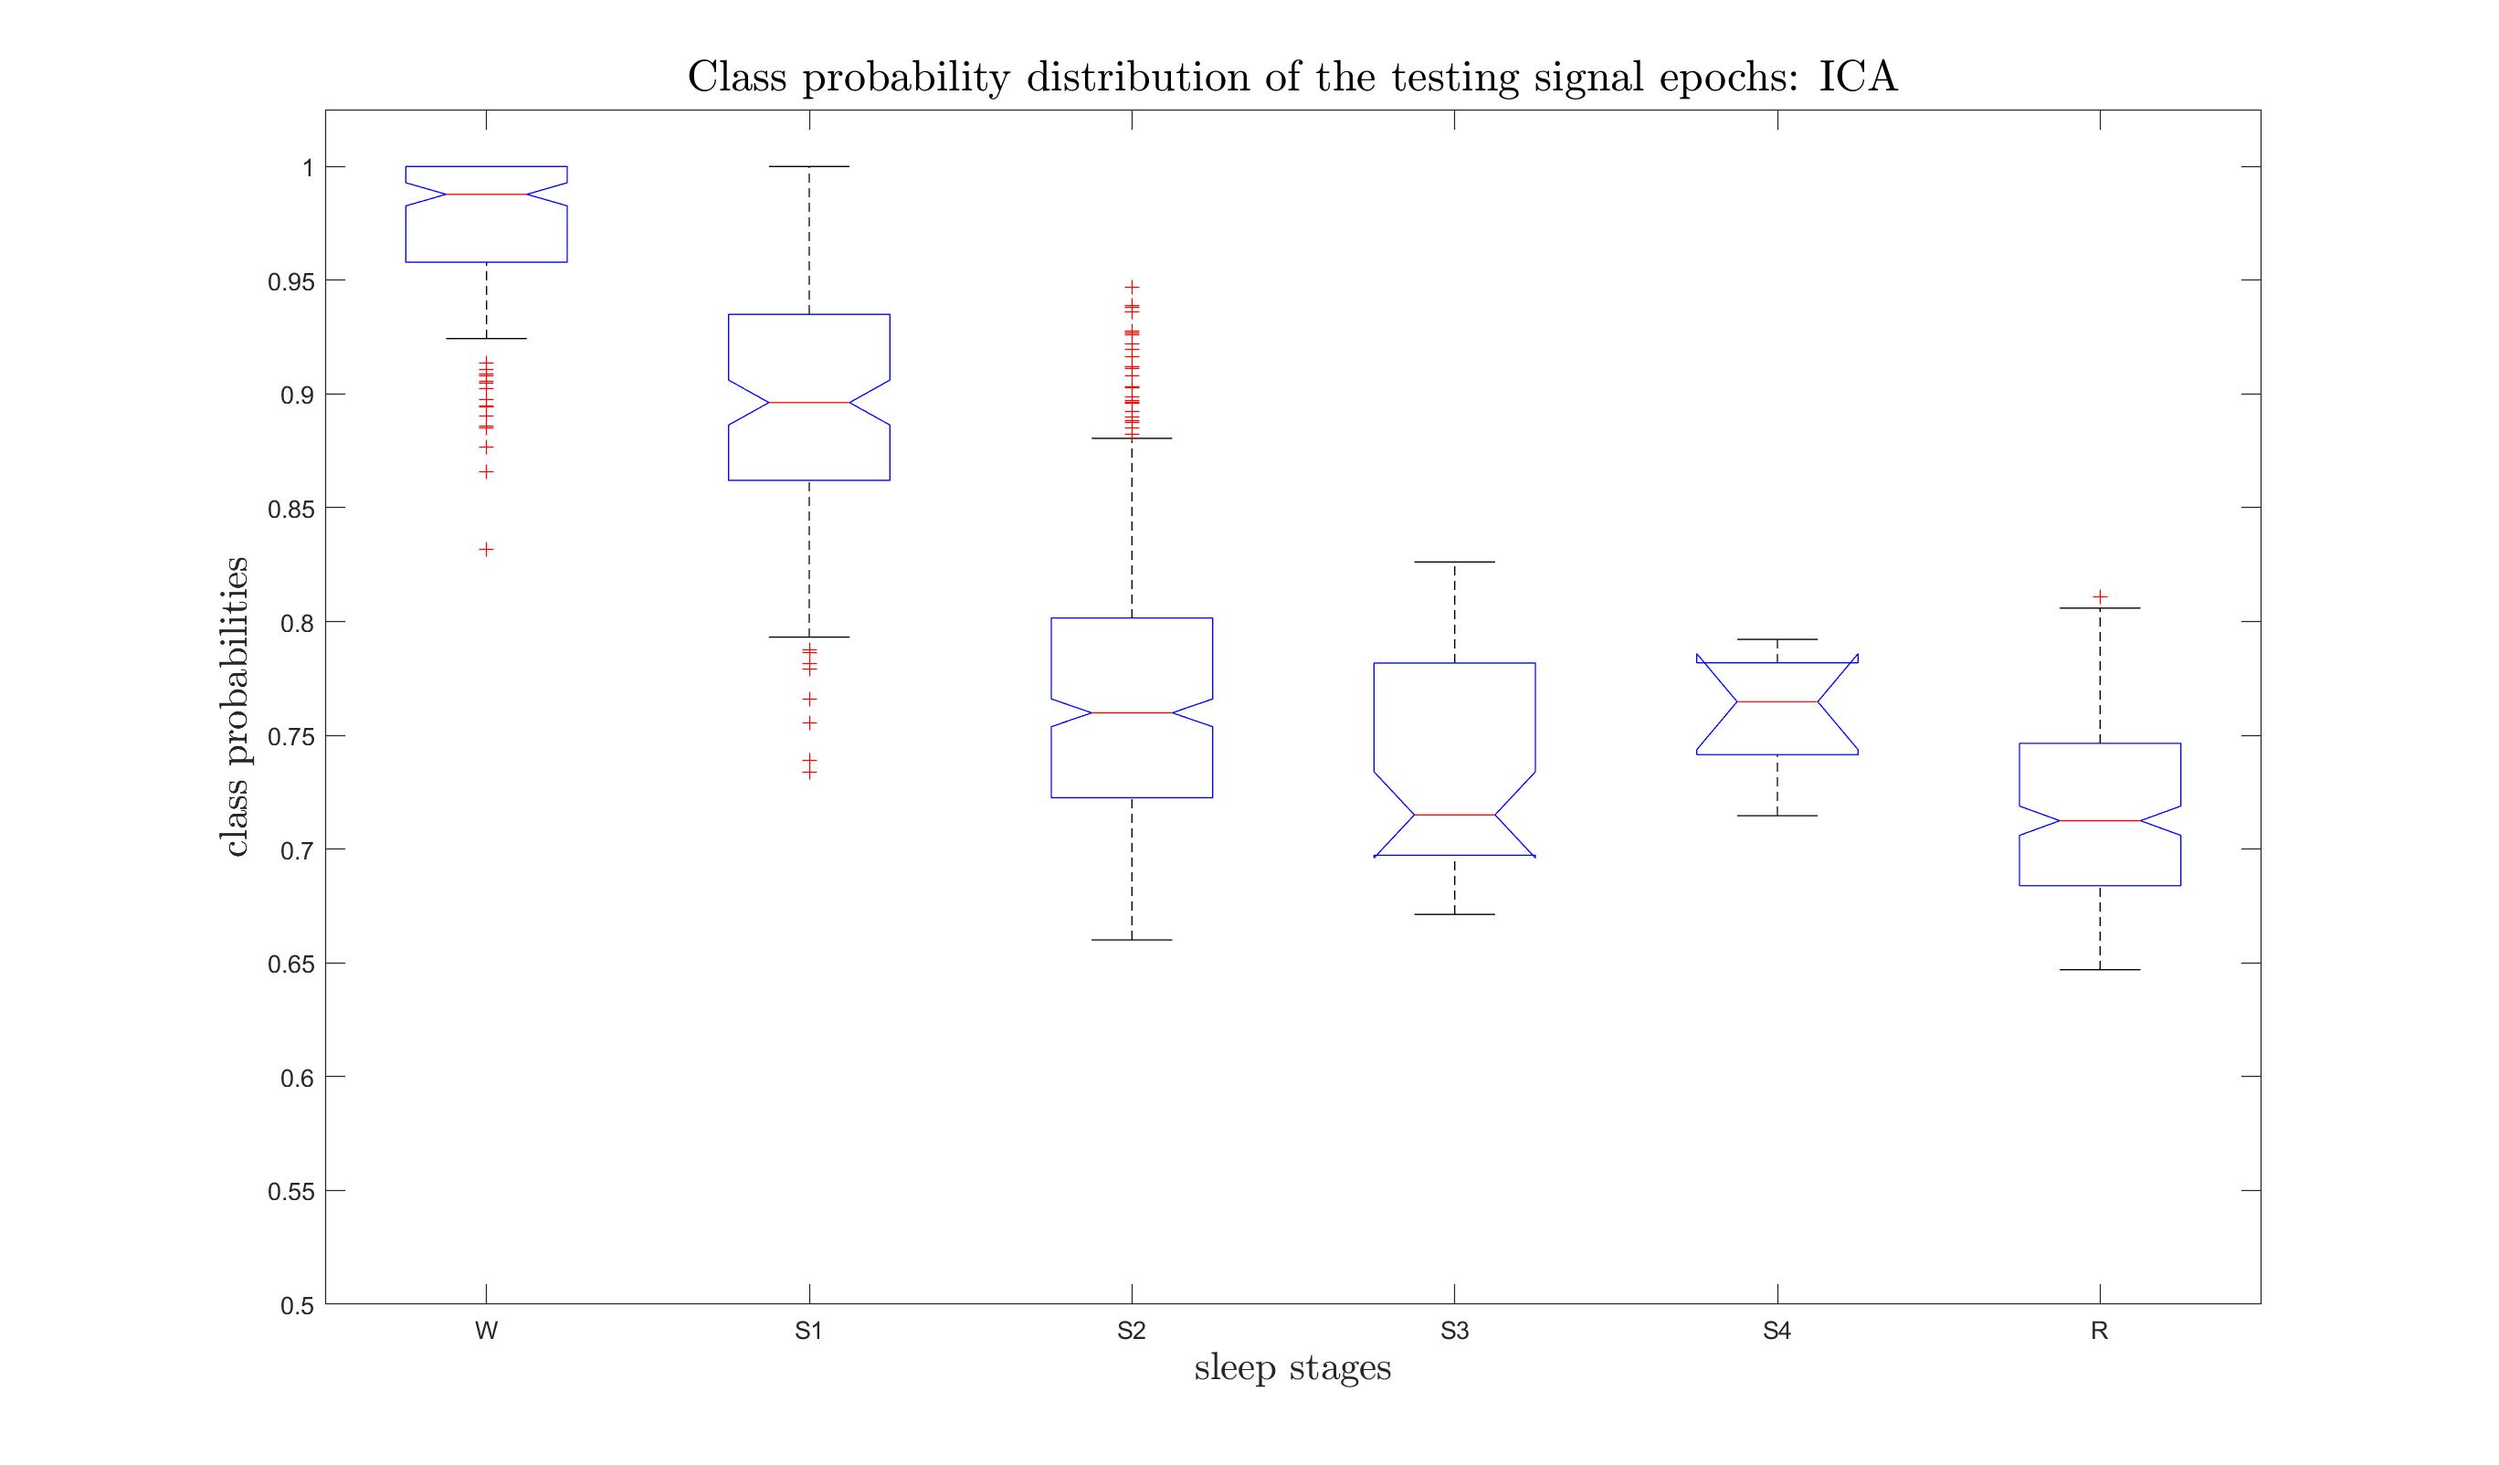
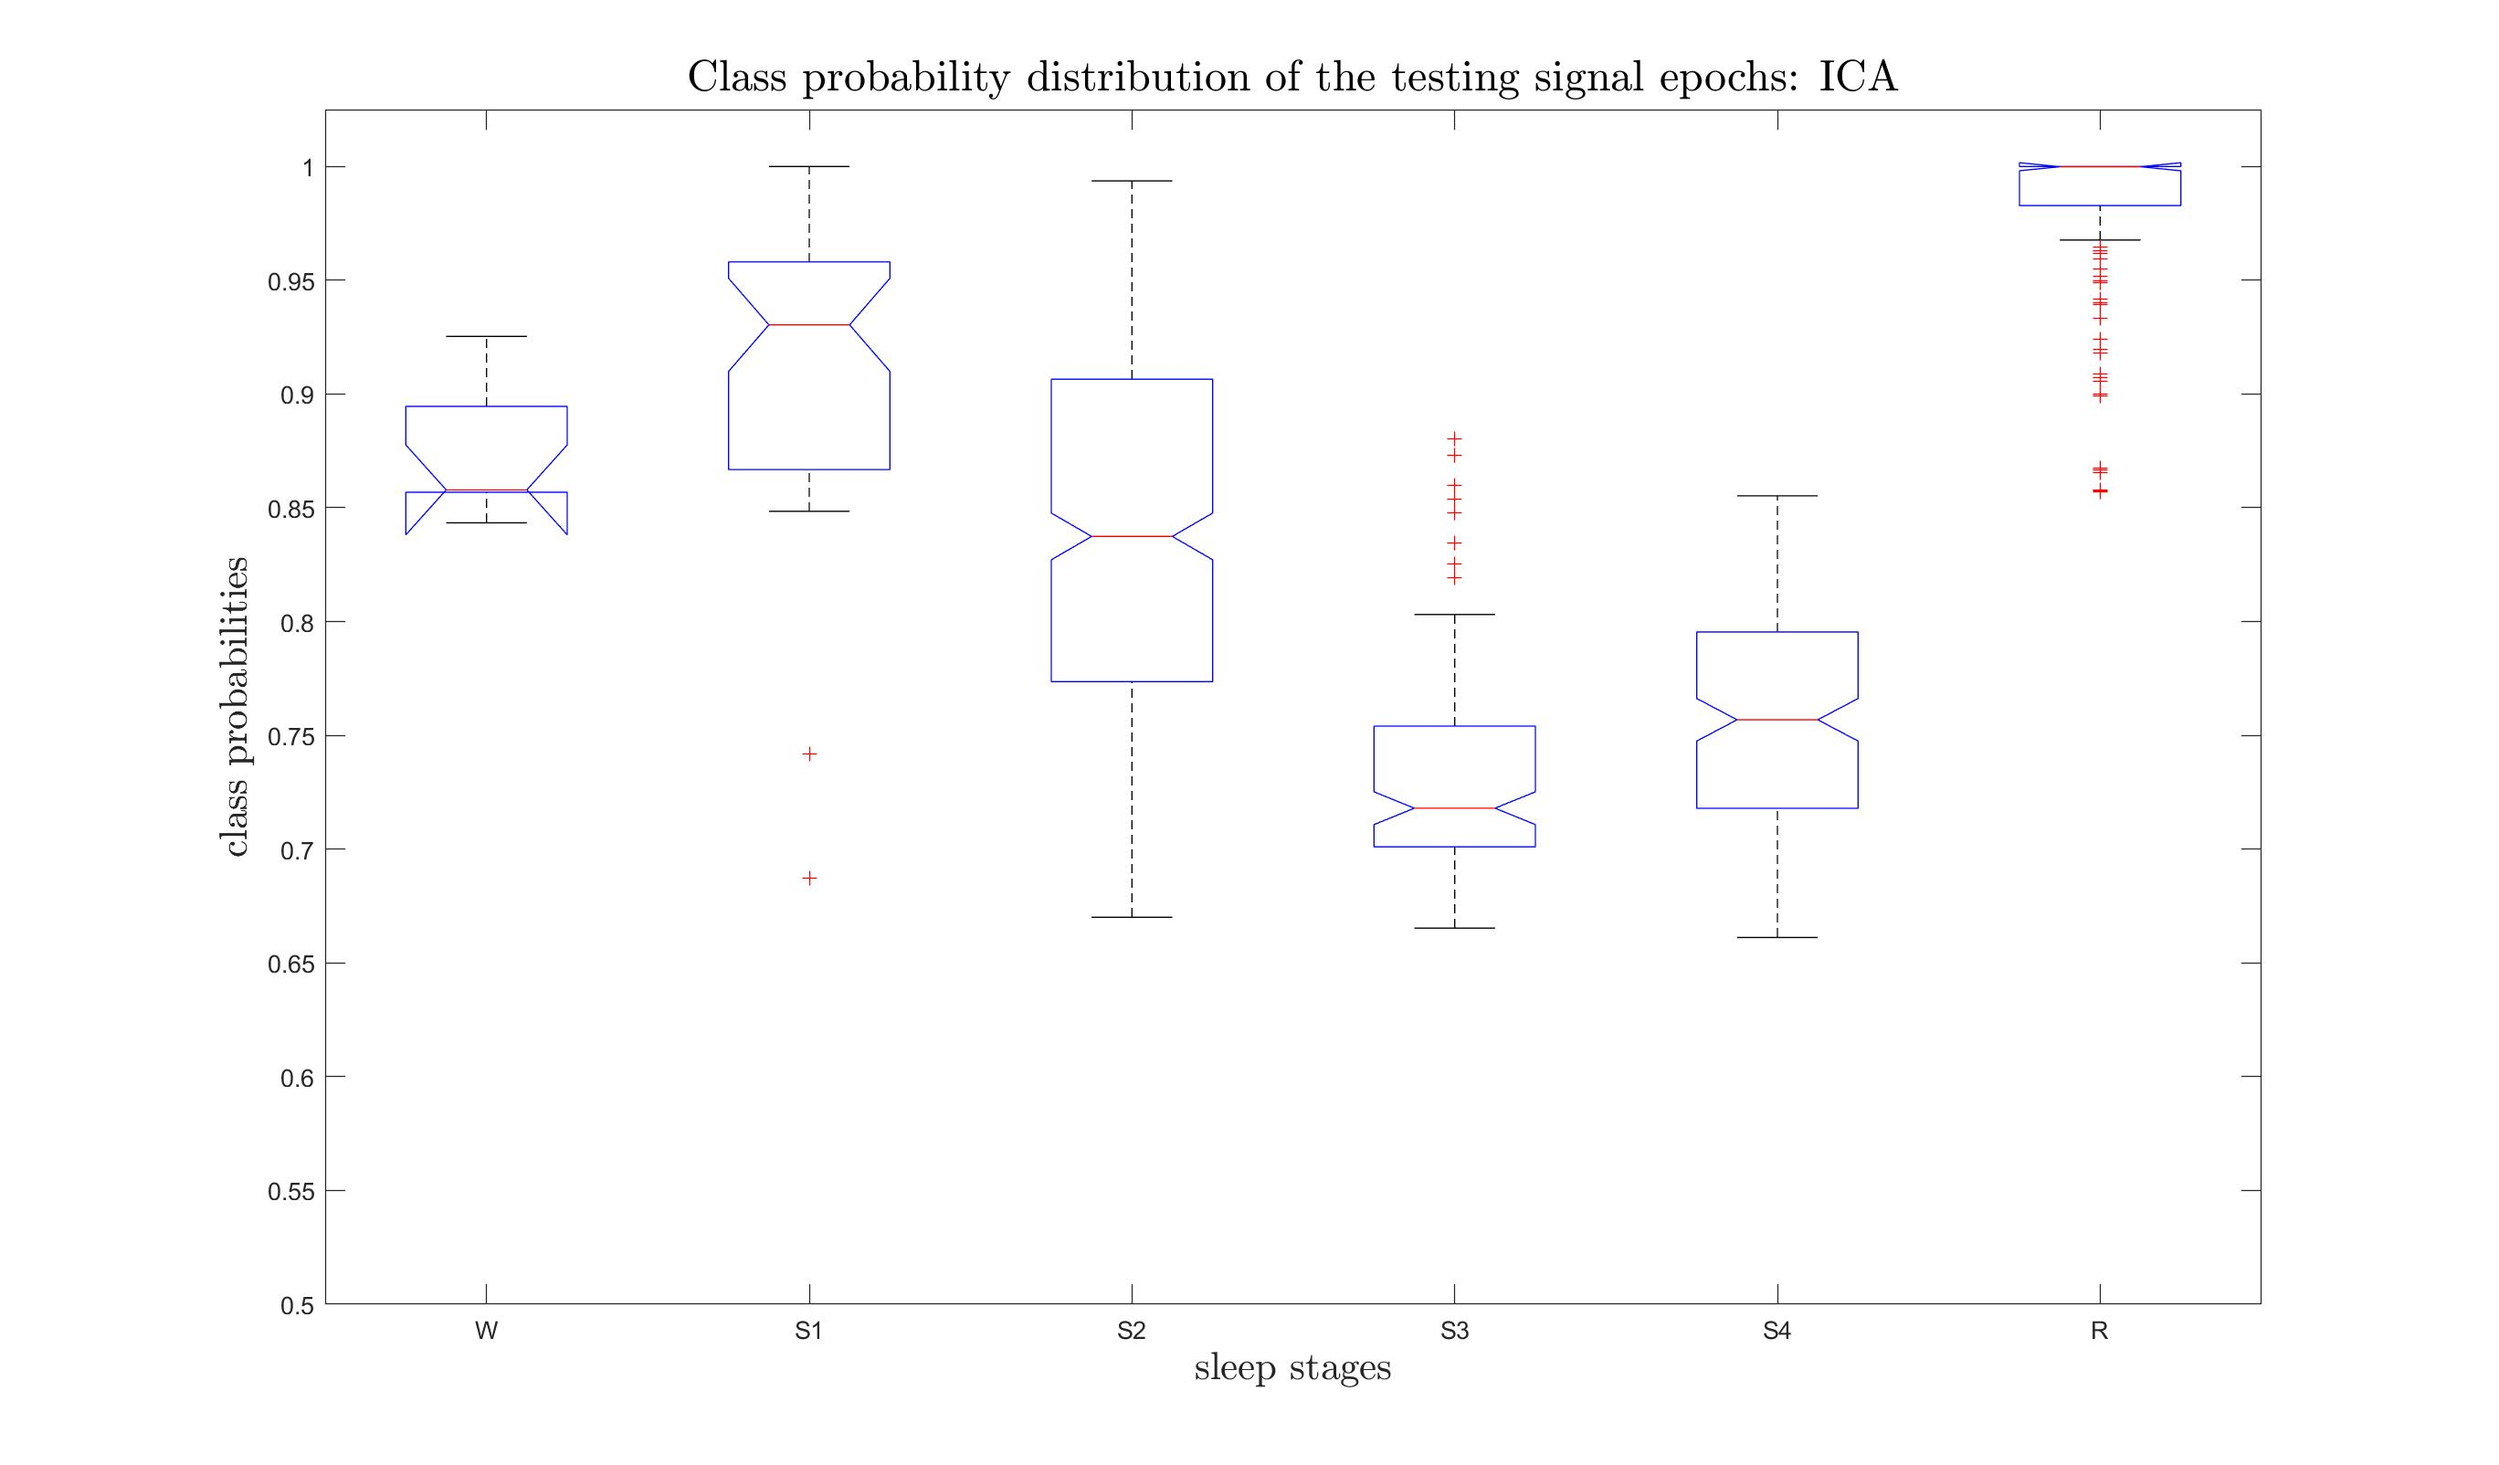
Plot updates after minor correction of trained models

diff --git a/plotting/training_model_comparison.m b/plotting/training_model_comparison.m
@@ -95,19 +95,19 @@ if mode == 'Y' || mode == 'y'
         score = score_cell{i, 1};
 
         n_classes = size(score, 2);
-        gt_s1 = zeros(1, sum(P5stages == 1));
-        gt_s2 = zeros(1, sum(P5stages == 2));
+        gt_s1 = zeros(1, sum(P5stages == 5));
+        gt_s2 = zeros(1, sum(P5stages == 4));
         gt_s3 = zeros(1, sum(P5stages == 3));
-        gt_s4 = zeros(1, sum(P5stages == 4));
-        gt_s5 = zeros(1, sum(P5stages == 5));
-        gt_s6 = zeros(1, sum(P5stages == 6));
+        gt_s4 = zeros(1, sum(P5stages == 2));
+        gt_s5 = zeros(1, sum(P5stages == 1));
+        gt_s6 = zeros(1, sum(P5stages == 0));
 
-        ind_gt_s1 = find(P5stages == 1);
-        ind_gt_s2 = find(P5stages == 2);
+        ind_gt_s1 = find(P5stages == 5);
+        ind_gt_s2 = find(P5stages == 4);
         ind_gt_s3 = find(P5stages == 3);
-        ind_gt_s4 = find(P5stages == 4);
-        ind_gt_s5 = find(P5stages == 5);
-        ind_gt_s6 = find(P5stages == 6);
+        ind_gt_s4 = find(P5stages == 2);
+        ind_gt_s5 = find(P5stages == 1);
+        ind_gt_s6 = find(P5stages == 0);
 
         scores_s1 = score(ind_gt_s1, 1);
         scores_s2 = score(ind_gt_s2, 1);
@@ -160,19 +160,19 @@ elseif mode == 'N' || mode == 'n'
     
     score = score_cell{1, 1};
 
-    gt_s1 = zeros(1, sum(P5stages == 1));
-    gt_s2 = zeros(1, sum(P5stages == 2));
+    gt_s1 = zeros(1, sum(P5stages == 5));
+    gt_s2 = zeros(1, sum(P5stages == 4));
     gt_s3 = zeros(1, sum(P5stages == 3));
-    gt_s4 = zeros(1, sum(P5stages == 4));
-    gt_s5 = zeros(1, sum(P5stages == 5));
-    gt_s6 = zeros(1, sum(P5stages == 6));
+    gt_s4 = zeros(1, sum(P5stages == 2));
+    gt_s5 = zeros(1, sum(P5stages == 1));
+    gt_s6 = zeros(1, sum(P5stages == 0));
 
-    ind_gt_s1 = find(P5stages == 1);
-    ind_gt_s2 = find(P5stages == 2);
+    ind_gt_s1 = find(P5stages == 5);
+    ind_gt_s2 = find(P5stages == 4);
     ind_gt_s3 = find(P5stages == 3);
-    ind_gt_s4 = find(P5stages == 4);
-    ind_gt_s5 = find(P5stages == 5);
-    ind_gt_s6 = find(P5stages == 6);
+    ind_gt_s4 = find(P5stages == 2);
+    ind_gt_s5 = find(P5stages == 1);
+    ind_gt_s6 = find(P5stages == 0);
 
     scores_s1 = score(ind_gt_s1, 1);
     scores_s2 = score(ind_gt_s2, 1);
@@ -223,6 +223,12 @@ end
 
 
 %% 3. Plotting accuracies
+% W=5
+% S1=4
+% S2=3
+% S3=2
+% S4=1
+% REM=0
 
 prep_labels = ["No Preprocessing", "ICA", "Filtering", "ICA $+$ Filtering"];
 
@@ -236,19 +242,19 @@ if mode == 'Y' || mode == 'y'
     
     figure();
     for i = 1:4
-        s1_ind = find(P5stages == 1);
-        s2_ind = find(P5stages == 2);
-        s3_ind = find(P5stages == 3);
-        s4_ind = find(P5stages == 4);
-        s5_ind = find(P5stages == 5);
-        s6_ind = find(P5stages == 6);
+        s1_ind = find(P5stages == 5); % W
+        s2_ind = find(P5stages == 4); % S1
+        s3_ind = find(P5stages == 3); % S2
+        s4_ind = find(P5stages == 2); % S3
+        s5_ind = find(P5stages == 1); % S4
+        s6_ind = find(P5stages == 0); % REM
 
-        confusion_result(1, 1) = sum(label_cell{i, 1}(s1_ind, 1) == 1) / length(label_cell{i, 1}(s1_ind, 1));
-        confusion_result(2, 1) = sum(label_cell{i, 1}(s2_ind, 1) == 2) / length(label_cell{i, 1}(s2_ind, 1));
+        confusion_result(1, 1) = sum(label_cell{i, 1}(s1_ind, 1) == 5) / length(label_cell{i, 1}(s1_ind, 1));
+        confusion_result(2, 1) = sum(label_cell{i, 1}(s2_ind, 1) == 4) / length(label_cell{i, 1}(s2_ind, 1));
         confusion_result(3, 1) = sum(label_cell{i, 1}(s3_ind, 1) == 3) / length(label_cell{i, 1}(s3_ind, 1));
-        confusion_result(4, 1) = sum(label_cell{i, 1}(s4_ind, 1) == 4) / length(label_cell{i, 1}(s4_ind, 1));
-        confusion_result(5, 1) = sum(label_cell{i, 1}(s5_ind, 1) == 5) / length(label_cell{i, 1}(s5_ind, 1));
-        confusion_result(6, 1) = sum(label_cell{i, 1}(s6_ind, 1) == 6) / length(label_cell{i, 1}(s6_ind, 1));
+        confusion_result(4, 1) = sum(label_cell{i, 1}(s4_ind, 1) == 2) / length(label_cell{i, 1}(s4_ind, 1));
+        confusion_result(5, 1) = sum(label_cell{i, 1}(s5_ind, 1) == 1) / length(label_cell{i, 1}(s5_ind, 1));
+        confusion_result(6, 1) = sum(label_cell{i, 1}(s6_ind, 1) == 0) / length(label_cell{i, 1}(s6_ind, 1));
 
         ax(i, 1) = plot([1, 2, 3, 4, 5, 6], confusion_result', 'LineWidth', 2, 'Color', color_pattern(i, :)); hold on;
         scatter([1, 2, 3, 4, 5, 6], confusion_result', 70, 'LineWidth', 2, 'MarkerEdgeColor', color_pattern(i, :));
@@ -283,19 +289,19 @@ if mode == 'Y' || mode == 'y'
         
 else
     
-    s1_ind = find(P5stages == 1);
-    s2_ind = find(P5stages == 2);
+    s1_ind = find(P5stages == 5);
+    s2_ind = find(P5stages == 4);
     s3_ind = find(P5stages == 3);
-    s4_ind = find(P5stages == 4);
-    s5_ind = find(P5stages == 5);
-    s6_ind = find(P5stages == 6);
+    s4_ind = find(P5stages == 2);
+    s5_ind = find(P5stages == 1);
+    s6_ind = find(P5stages == 0);
 
-    confusion_result(1, 1) = sum(label_cell{1, 1}(s1_ind, 1) == 1) / length(label_cell{1, 1}(s1_ind, 1));
-    confusion_result(2, 1) = sum(label_cell{1, 1}(s2_ind, 1) == 2) / length(label_cell{1, 1}(s2_ind, 1));
+    confusion_result(1, 1) = sum(label_cell{1, 1}(s1_ind, 1) == 5) / length(label_cell{1, 1}(s1_ind, 1));
+    confusion_result(2, 1) = sum(label_cell{1, 1}(s2_ind, 1) == 4) / length(label_cell{1, 1}(s2_ind, 1));
     confusion_result(3, 1) = sum(label_cell{1, 1}(s3_ind, 1) == 3) / length(label_cell{1, 1}(s3_ind, 1));
-    confusion_result(4, 1) = sum(label_cell{1, 1}(s4_ind, 1) == 4) / length(label_cell{1, 1}(s4_ind, 1));
-    confusion_result(5, 1) = sum(label_cell{1, 1}(s5_ind, 1) == 5) / length(label_cell{1, 1}(s5_ind, 1));
-    confusion_result(6, 1) = sum(label_cell{1, 1}(s6_ind, 1) == 6) / length(label_cell{1, 1}(s6_ind, 1));
+    confusion_result(4, 1) = sum(label_cell{1, 1}(s4_ind, 1) == 2) / length(label_cell{1, 1}(s4_ind, 1));
+    confusion_result(5, 1) = sum(label_cell{1, 1}(s5_ind, 1) == 1) / length(label_cell{1, 1}(s5_ind, 1));
+    confusion_result(6, 1) = sum(label_cell{1, 1}(s6_ind, 1) == 0) / length(label_cell{1, 1}(s6_ind, 1));
 
     figure();
     plot([1, 2, 3, 4, 5, 6], confusion_result'); hold on;
@@ -316,6 +322,7 @@ else
     'FontWeight','normal','FontSize',16,'FontName','Times');
 
 end
+
 
 %% (DEPRECATED) Plotting a boxplot using data chunks of predictors
 
